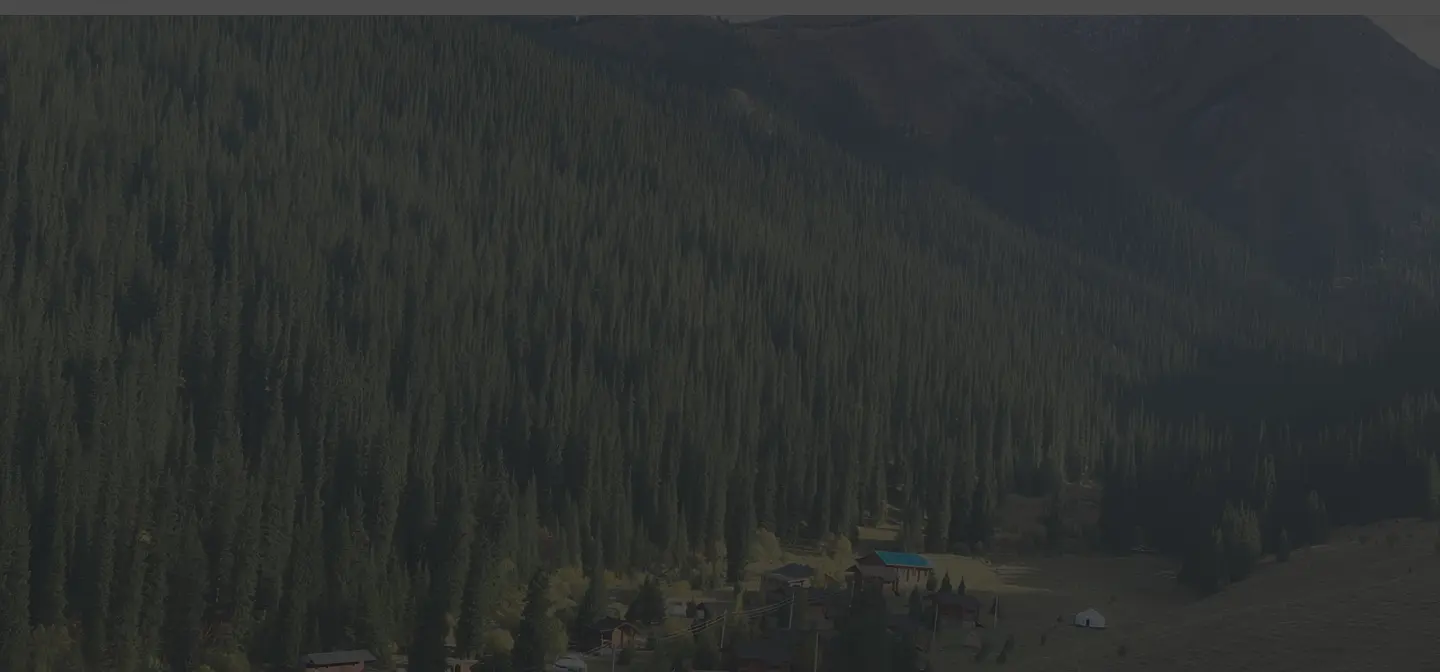
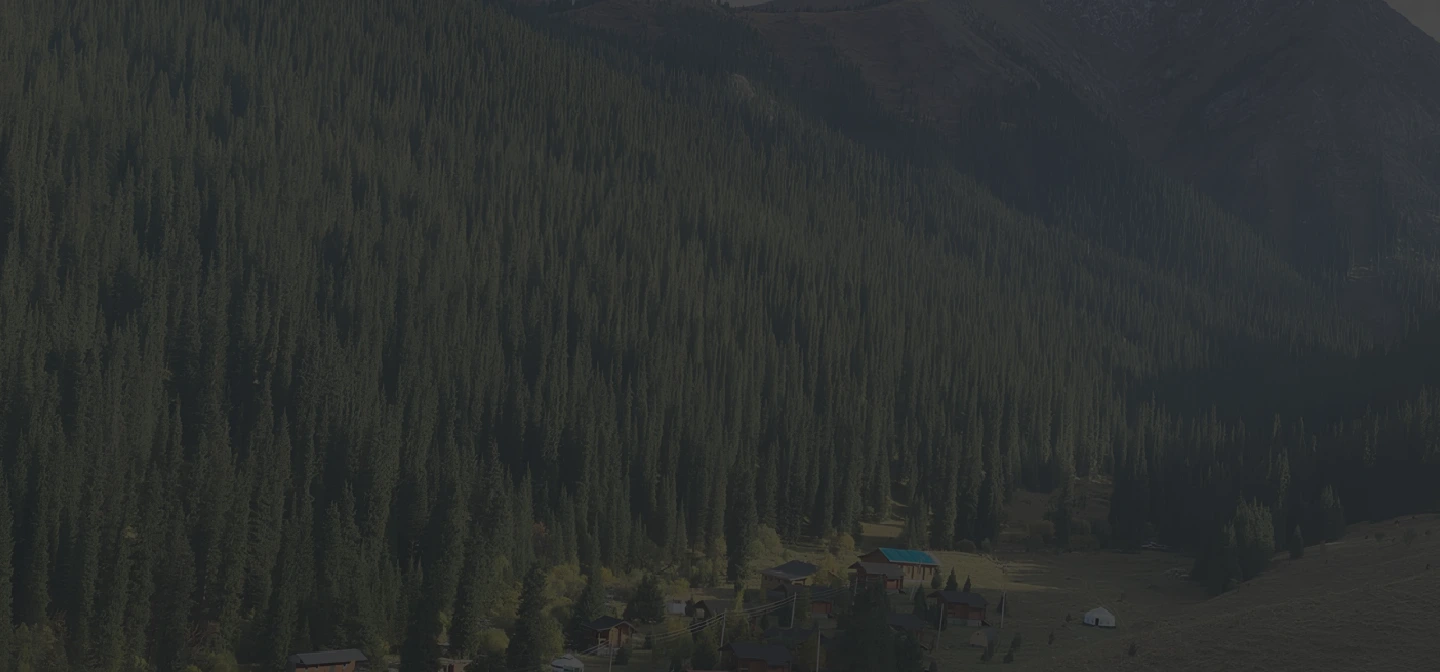
fix console.log and webp fix

diff --git a/components/Hero.jsx b/components/Hero.jsx
@@ -2,7 +2,7 @@ import React from "react";
 
 const Hero = ({ isFirst }) => {
   return (
-    <div className={`h-[80vh] md:h-screen p-5 lg:p-20 text-white relative ${isFirst ? "bg-[url('/png/hero.png')]" : "bg-[url('/png/hero2.png')]"} bg-cover`}>
+    <div className={`h-[80vh] md:h-screen p-5 lg:p-20 text-white relative ${isFirst ? "bg-[url('/hero.webp')]" : "bg-[url('/hero2.webp')]"} bg-cover`}>
       <div className="h-full flex flex-col gap-8 justify-end lg:justify-center z-10 relative">
         {isFirst ? (
           <h1 className="text-white font-semibold text-3xl sm:text-5xl leading-[1.2]">

diff --git a/components/Conditions.jsx b/components/Conditions.jsx
@@ -6,8 +6,8 @@ const Conditions = ({ isFirst }) => {
       id={isFirst ? "conditions" : "conditions2"}
       className={`${
         isFirst
-          ? 'bg-[url("/png/conditions1bg.png")]'
-          : 'bg-[url("/png/conditions2bg.png")]'
+          ? 'bg-[url("/conditions1bg.webp")]'
+          : 'bg-[url("/conditions2bg.webp")]'
       } p-5 xl:p-20 flex flex-col gap-5 bg-cover`}
     >
       <div className="flex max-h-auto md:max-h-[340px]">

diff --git a/components/Navbar.jsx b/components/Navbar.jsx
@@ -14,7 +14,6 @@ const Navbar = () => {
     setScrollY(window.scrollY);
     
   };
-  console.log(scrollY)
   useEffect(() => {
     window.addEventListener("scroll", handleScroll);
 
